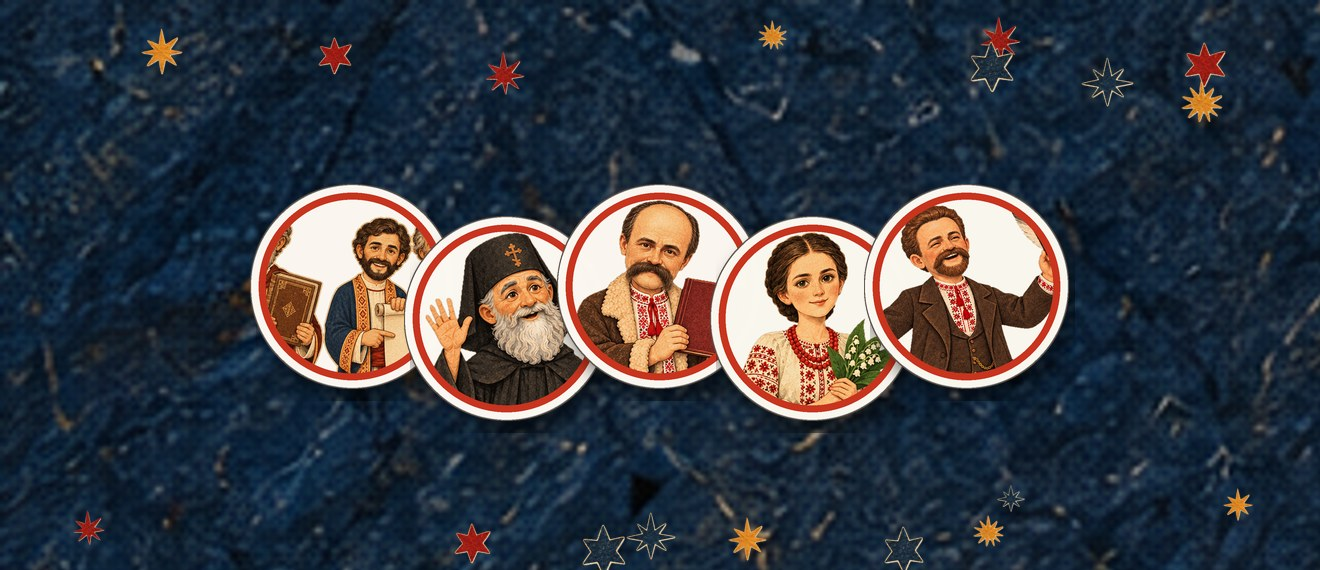
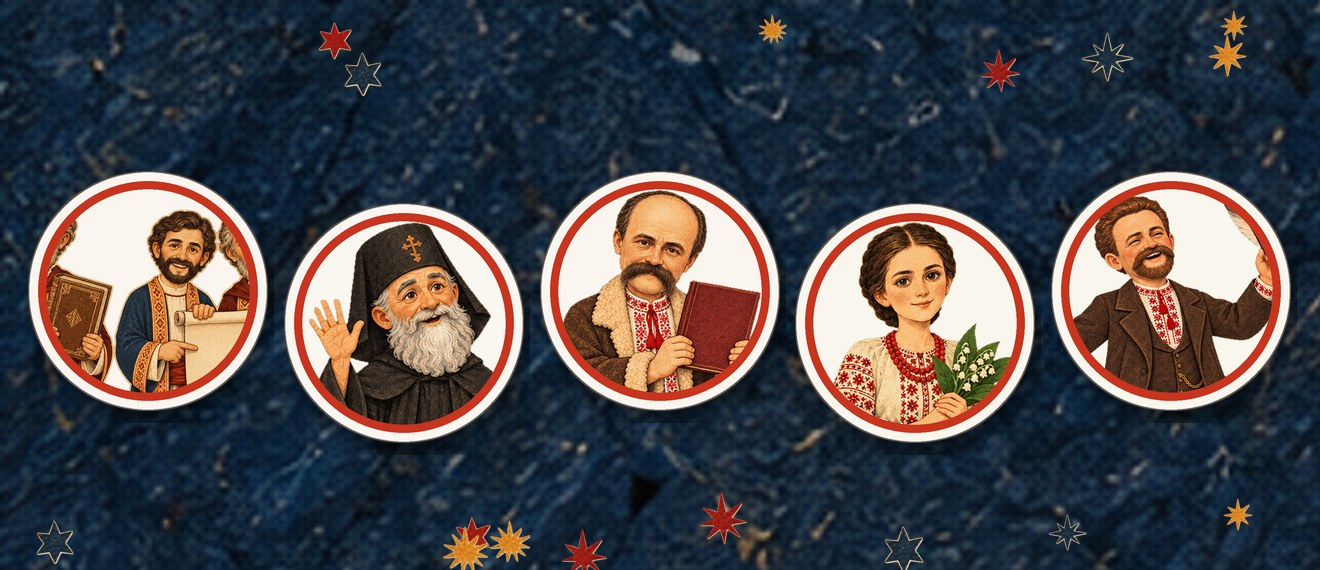
Обкладинка набору: постійні пропорції без обрізання на будь-якій ширині

diff --git a/public/css/app.css b/public/css/app.css
@@ -90,7 +90,7 @@ h3 { font-weight: 900; font-size: 1.15em; }
 .shelf { display: grid; grid-template-columns: repeat(auto-fill, minmax(min(100%, 380px), 1fr)); gap: 24px; margin-top: 26px; }
 .pack-card { text-align: left; background: #fff; border-radius: var(--radius); box-shadow: var(--shadow); overflow: hidden; display: flex; flex-direction: column; transition: transform .15s; }
 .pack-card:hover { transform: translateY(-4px); }
-.pack-card .cover { background: var(--sky); height: 190px; display: flex; align-items: flex-end; justify-content: center; position: relative; overflow: hidden; }
+.pack-card .cover { background: var(--sky); aspect-ratio: 1320 / 570; display: flex; align-items: flex-end; justify-content: center; position: relative; overflow: hidden; }
 .pack-card .cover img { position: absolute; inset: 0; width: 100%; height: 100%; object-fit: cover; }
 .pack-card .cover .date { z-index: 1; }
 .pack-card .cover .date { position: absolute; top: 14px; left: 14px; background: var(--yellow); color: var(--ink); font-weight: 900; padding: 4px 12px; border-radius: 99px; font-size: .8em; }
